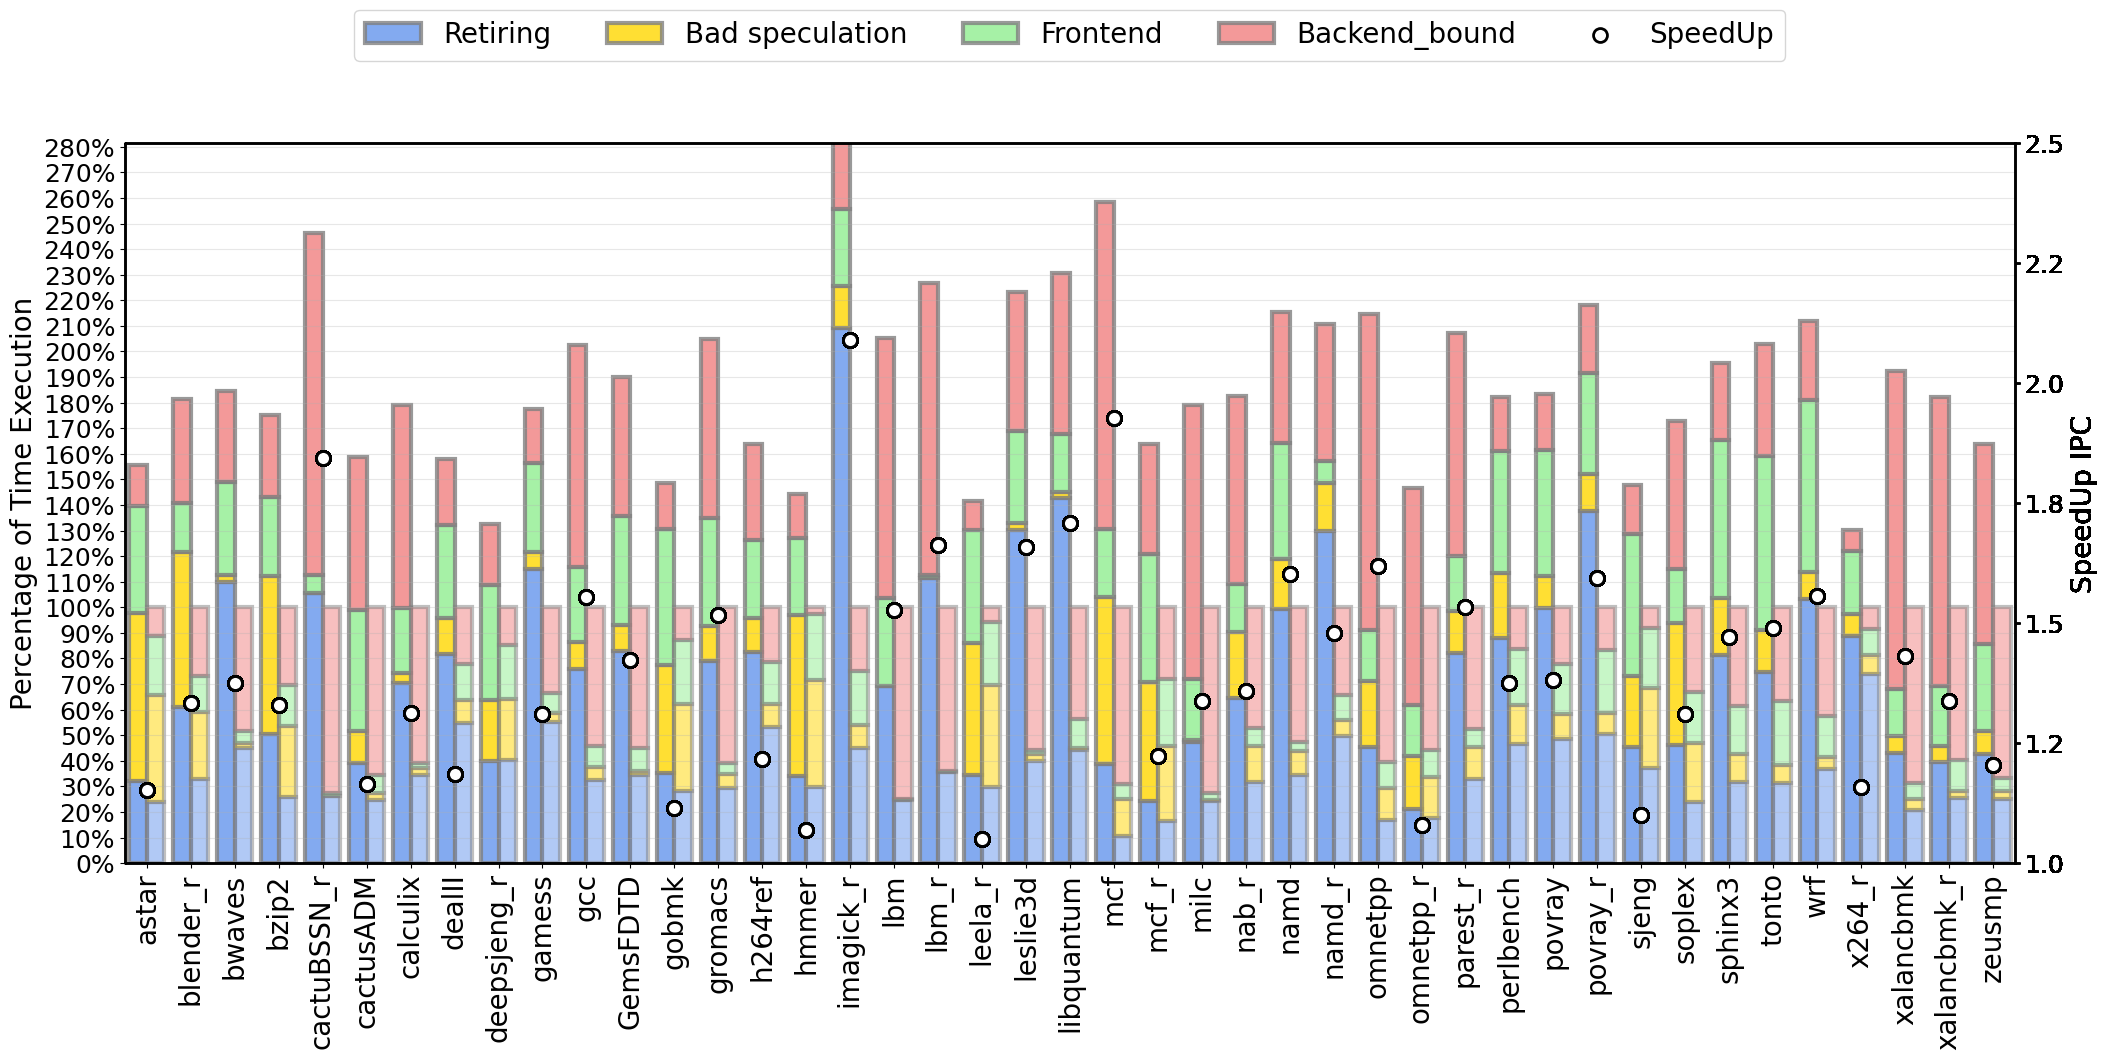
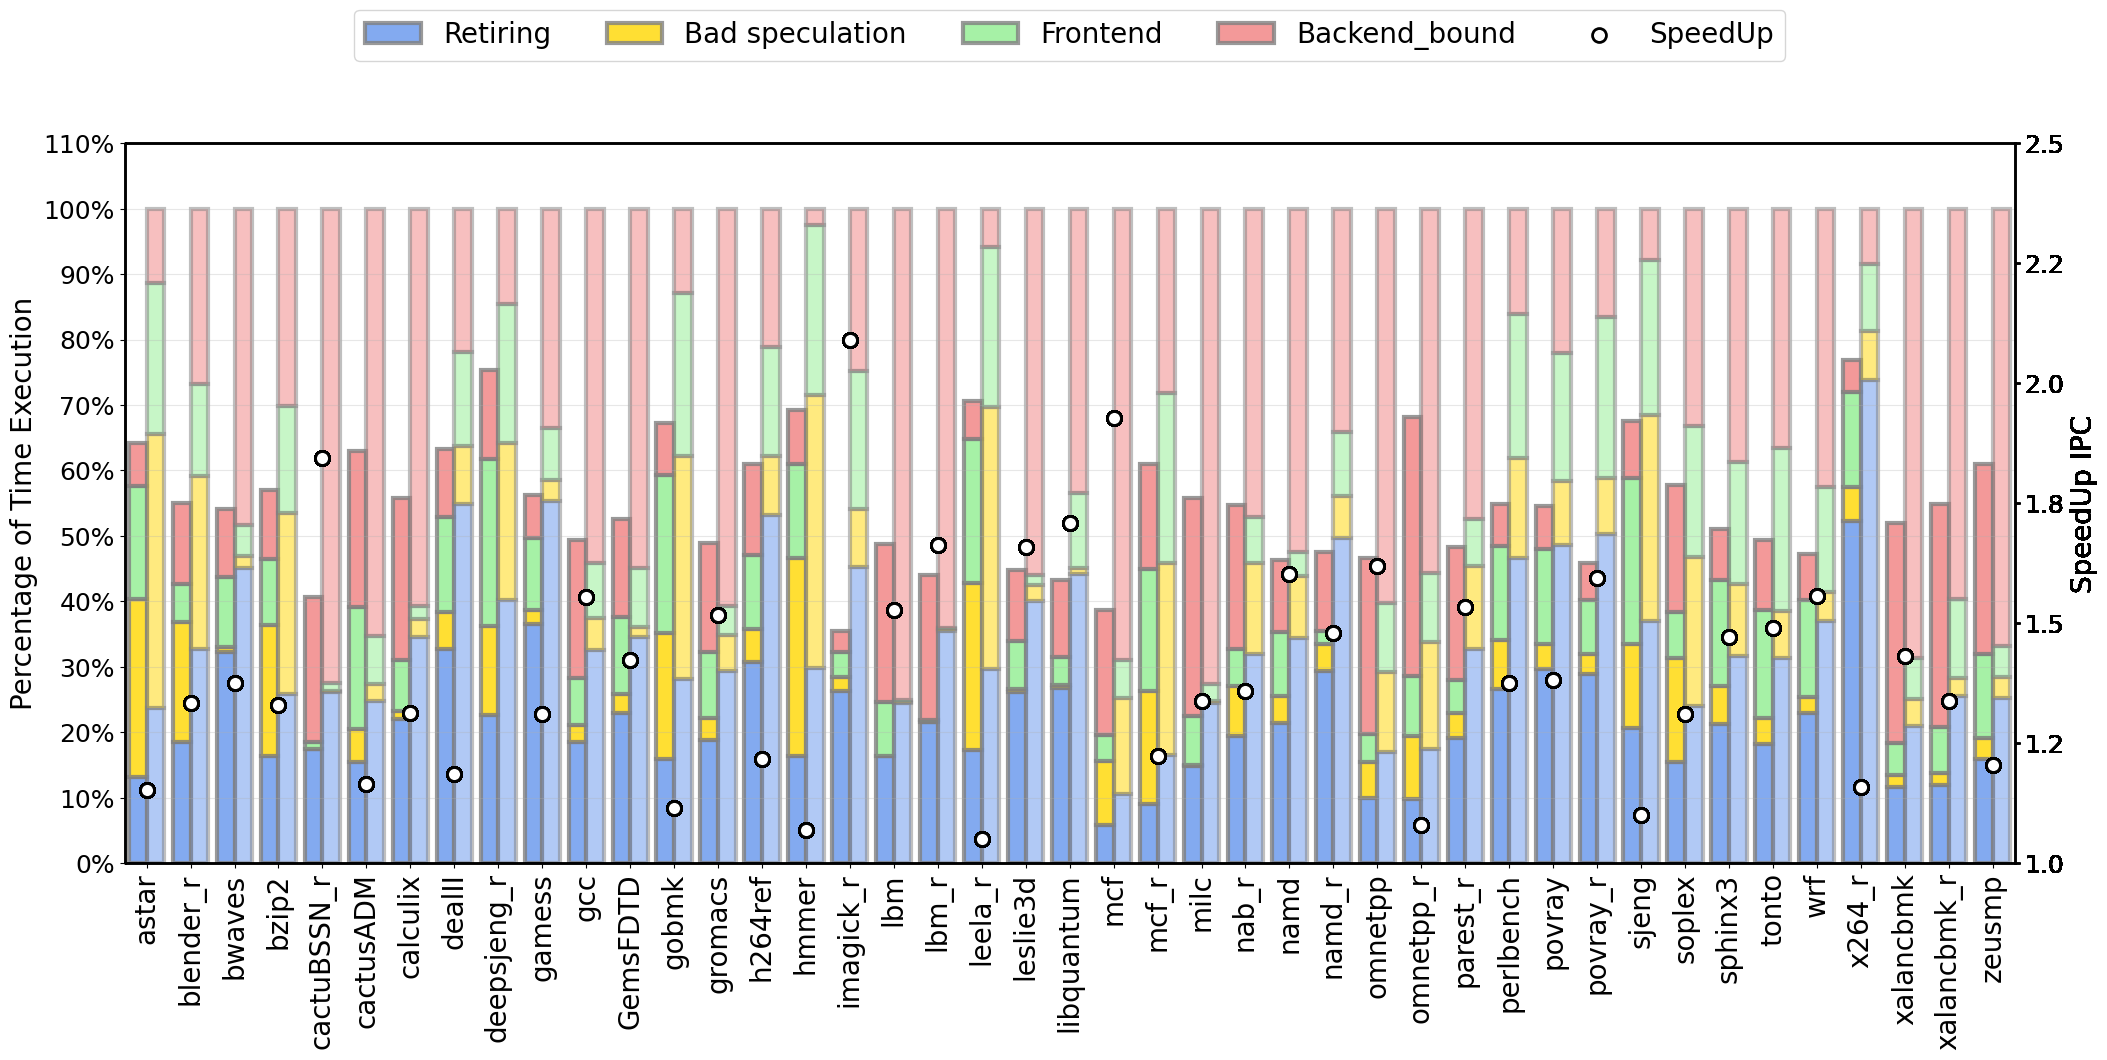
don

diff --git a/comparativa_topdown.py b/comparativa_topdown.py
@@ -41,7 +41,7 @@ def main():
             print(f"Error: Las aplicaciones no coinciden: {datos_P[0]} vs {datos_E[0]}")
             continue
 
-        speedup_tiempo = float(datos_E[1]) / float(datos_P[1]) 
+        speedup_tiempo = float(datos_P[1]) / float(datos_E[1])
         app_names.append(datos_P[0])
 
         retiring_values.append((speedup_tiempo * float(datos_P[2]), float(datos_E[2])))
